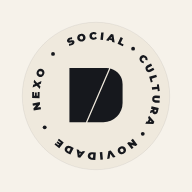
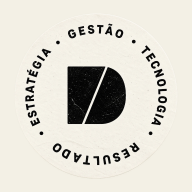
Ícone do app: o selo enviado, exatamente como na arte
O app instalado (Android, iPhone, Windows/Mac) e a aba do navegador
passam a usar o selo da imagem enviada, sem redesenho: o disco é
recortado pela transparência da própria arte, com a borda original.

- icon-192/512 com cantos transparentes; maskable com o selo dentro da
  zona segura do Android e fundo na cor do papel; apple-touch-icon com
  fundo (o iOS não aceita transparência); favicons de 32 e 48 px.
- `?v=selo-2` nas URLs e cache do service worker na v5, para os apps
  já instalados trocarem o ícone.

Claude-Session: https://claude.ai/code/session_01LHz3jjHudGa5jvBtZrMuha

diff --git a/app/manifest.ts b/app/manifest.ts
@@ -8,6 +8,9 @@ import type { MetadataRoute } from 'next';
  * `display`/`shortcuts`, mas respeita nome e ícone via as meta tags apple-* do
  * layout, e a instalação sai por "Adicionar à Tela de Início".
  */
+/** Versão do ícone — mude ao trocar os arquivos de ícone. */
+const ICONE = 'selo-2';
+
 export default function manifest(): MetadataRoute.Manifest {
   return {
     name: 'nexo.social — interesses e hobbies',
@@ -23,13 +26,16 @@ export default function manifest(): MetadataRoute.Manifest {
     lang: 'pt-BR',
     dir: 'ltr',
     categories: ['lifestyle', 'entertainment', 'social'],
+    // Ícone do app instalado: o selo (public/icon-*.png, gerados da arte
+    // original). O `?v=` muda a URL a cada troca de ícone — é assim que o
+    // Android e o desktop percebem que o ícone mudou e atualizam o instalado.
     icons: [
-      { src: '/icon-192.png', sizes: '192x192', type: 'image/png', purpose: 'any' },
-      { src: '/icon-512.png', sizes: '512x512', type: 'image/png', purpose: 'any' },
+      { src: `/icon-192.png?v=${ICONE}`, sizes: '192x192', type: 'image/png', purpose: 'any' },
+      { src: `/icon-512.png?v=${ICONE}`, sizes: '512x512', type: 'image/png', purpose: 'any' },
       // Maskable com folga: o Android recorta em círculo/squircle conforme o
-      // aparelho, e sem margem o desenho seria cortado.
-      { src: '/icon-maskable-192.png', sizes: '192x192', type: 'image/png', purpose: 'maskable' },
-      { src: '/icon-maskable-512.png', sizes: '512x512', type: 'image/png', purpose: 'maskable' },
+      // aparelho, e sem margem o texto do selo seria cortado.
+      { src: `/icon-maskable-192.png?v=${ICONE}`, sizes: '192x192', type: 'image/png', purpose: 'maskable' },
+      { src: `/icon-maskable-512.png?v=${ICONE}`, sizes: '512x512', type: 'image/png', purpose: 'maskable' },
     ],
     // Atalhos de toque longo no ícone (Android e desktop).
     shortcuts: [

diff --git a/app/layout.tsx b/app/layout.tsx
@@ -75,12 +75,14 @@ export const metadata: Metadata = {
     title: 'nexo.social — sua agenda pessoal',
     description: 'Sua agenda pessoal de eventos e conteúdos, perto de você.',
   },
+  // O mesmo selo do app instalado, na aba do navegador e na Tela de Início do iPhone.
   icons: {
     icon: [
-      { url: '/logo.svg', type: 'image/svg+xml' },
-      { url: '/favicon-32.png', sizes: '32x32', type: 'image/png' },
+      { url: '/favicon-32.png?v=selo-2', sizes: '32x32', type: 'image/png' },
+      { url: '/favicon-48.png?v=selo-2', sizes: '48x48', type: 'image/png' },
+      { url: '/icon-192.png?v=selo-2', sizes: '192x192', type: 'image/png' },
     ],
-    apple: '/apple-touch-icon.png',
+    apple: { url: '/apple-touch-icon.png?v=selo-2', sizes: '180x180', type: 'image/png' },
   },
   appleWebApp: {
     // Faz o iOS abrir em tela cheia, sem a barra do Safari, quando adicionado

diff --git a/public/sw.js b/public/sw.js
@@ -15,12 +15,12 @@
 // Suba a versão quando um arquivo sem hash no nome mudar de conteúdo (ícones,
 // logo.svg): o cache antigo é apagado na ativação e o novo é baixado.
 // v4: selo NEXO • SOCIAL • CULTURA • NOVIDADE e tema claro.
-const VERSAO = 'nexo-v4';
+const VERSAO = 'nexo-v5';
 const SHELL = `${VERSAO}-shell`;
 const ESTATICO = `${VERSAO}-estatico`;
 const OFFLINE = '/offline';
 
-const PRE_CACHE = [OFFLINE, '/icon-192.png', '/icon-512.png', '/logo.svg'];
+const PRE_CACHE = [OFFLINE, '/icon-192.png', '/icon-512.png', '/apple-touch-icon.png', '/logo.svg'];
 
 self.addEventListener('install', (event) => {
   event.waitUntil(
